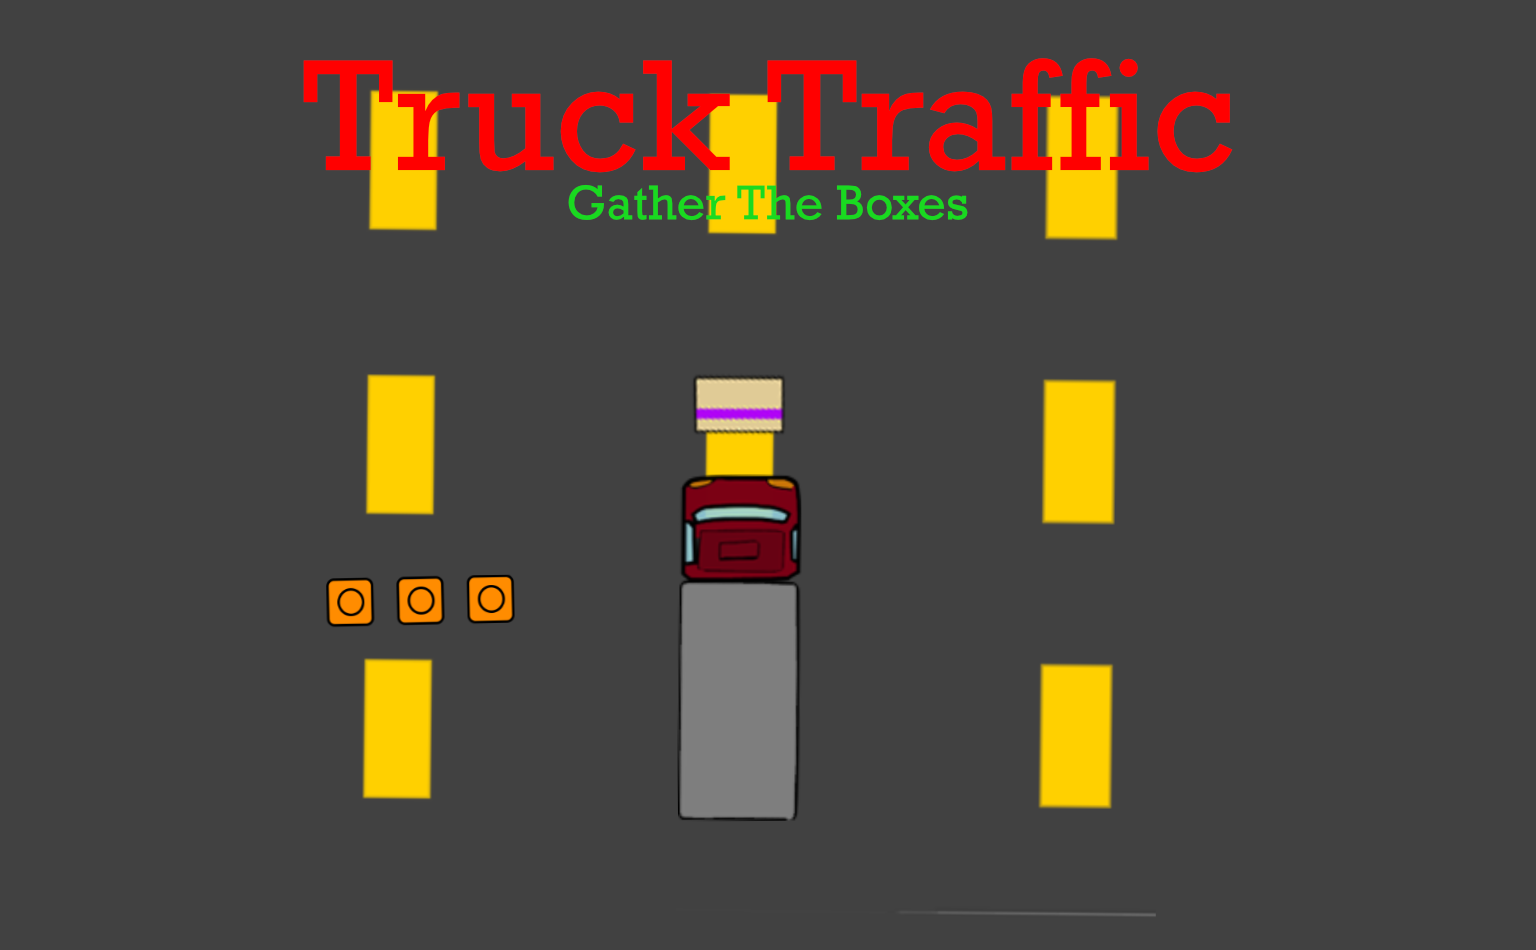
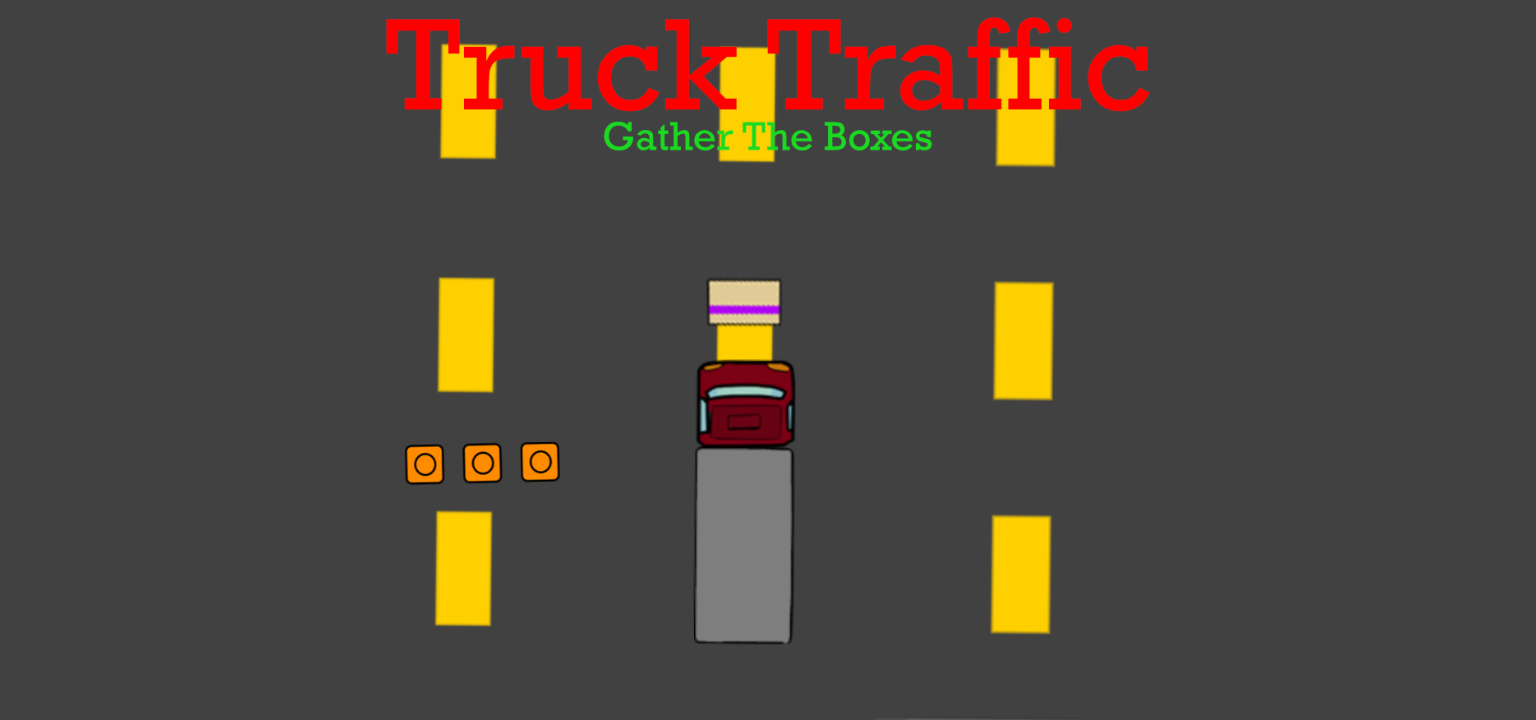
Add files via upload

diff --git a/sketch.js b/sketch.js
@@ -56,9 +56,11 @@ var logH, logHGroup;
 var hurtS;
 var pointUpS;
 var musicS;
-var lane1 = 105;
-var lane2 = 475;
-var lane3 = 857;
+var lane1 = 76;
+var lane2 = 360;
+var lane3 = 654;
+var screenWidthH = 1536/2;
+var screenHeightH = 720/2;
 
 
 function preload() {
@@ -92,62 +94,62 @@ function preload() {
 }
 
 function setup() {
-  createCanvas(1536, 950);
+  createCanvas(1536, 720);
 
-  road = createSprite(768, 475, 400, 400);
+  road = createSprite(screenWidthH, screenHeightH, 400, 400);
   road.addImage("roa", roadI);
   
 
-  title = createSprite(768, 475, 400, 400);
+  title = createSprite(screenWidthH, screenHeightH, 400, 400);
   title.addImage("titl", titleI);
 
-  aKey = createSprite(94, 319, 200, 200);
+  aKey = createSprite(94, 240, 200, 200);
   aKey.addImage("ake", aKeyI);
 
-  dKey = createSprite(298, 319, 200, 200);
+  dKey = createSprite(298, 240, 200, 200);
   dKey.addImage("dke", dKeyI);
 
-  easyB = createSprite(768, 475, 400, 400);
+  easyB = createSprite(screenWidthH, screenHeightH, 400, 400);
   easyB.addImage("eas", easyBI);
   easyB.scale = 0.75;
 
-  hardB = createSprite(768, 790, 400, 400);
+  hardB = createSprite(screenWidthH, 600, 400, 400);
   hardB.addImage("har", hardBI);
   hardB.scale = 0.75;
 
-  mainMenu = createSprite(100,818, 200, 200);
+  mainMenu = createSprite(100,654, 200, 200);
   mainMenu.addImage("mai", mainMenuI);
   mainMenu.debug = true;
   mainMenu.scale = 1.3;
   mainMenu.setCollider("rectangle", 0, 10, 190, 90);
 
-  pauseScreen = createSprite(768, 475, 400, 400);
+  pauseScreen = createSprite(screenWidthH, screenHeightH, 400, 400);
   pauseScreen.addImage("pause", pauseScreenI);
 
-  start = createSprite(768, 633, 400, 400);
+  start = createSprite(screenWidthH, 480, 400, 400);
   start.addImage("sta", startI);
   start.scale = 0.75
 
-  pause = createSprite(1284, 30, 400, 400);
+  pause = createSprite(1284, 23, 400, 400);
   pause.addImage("pau", pauseI);
 
-  truck = createSprite(196, 360, 400, 400);
+  truck = createSprite(196, lane2, 400, 400);
   truck.addImage("tru", truckI);
   truck.scale = 0.75;
   truck.setCollider("rectangle", 0, 0, 450,150);
   truck.debug = false;
 
-  next = createSprite(768, 700, 20, 20);
+  next = createSprite(screenWidthH, 554, 20, 20);
   next.addImage("nex", nextI);
 
-  tutorial = createSprite(768, 475, 400, 400);
+  tutorial = createSprite(screenWidthH, screenHeightH, 400, 400);
   tutorial.addImage("tut", tutorialI);
 
-  restart = createSprite(768, 400, 20, 20);
+  restart = createSprite(screenWidthH, 303, 20, 20);
   restart.addImage("res", restartI);
   restart.scale = 4;
 
-  gameover = createSprite(768, 475, 400, 400);
+  gameover = createSprite(screenWidthH, screenHeightH, 400, 400);
   gameover.addImage("gam", gameoverI);
   gameover.depth = -6;
   
@@ -163,13 +165,13 @@ function setup() {
   heart3.addImage("hear", heartI);
   heart3.scale = 0.75;
 
-  learnB = createSprite(768, 475,400,400);
+  learnB = createSprite(screenWidthH, screenHeightH,400,400);
   learnB.addImage("coinT", learnBI1);
 
-  learnB2 = createSprite(768, 475,400,400);
+  learnB2 = createSprite(screenWidthH, screenHeightH,400,400);
   learnB2.addImage("logT", learnBI2);
 
-  learnB3 = createSprite(768, 475,400,400);
+  learnB3 = createSprite(screenWidthH, screenHeightH,400,400);
   learnB3.addImage("rockT", learnBI3);
 
 
